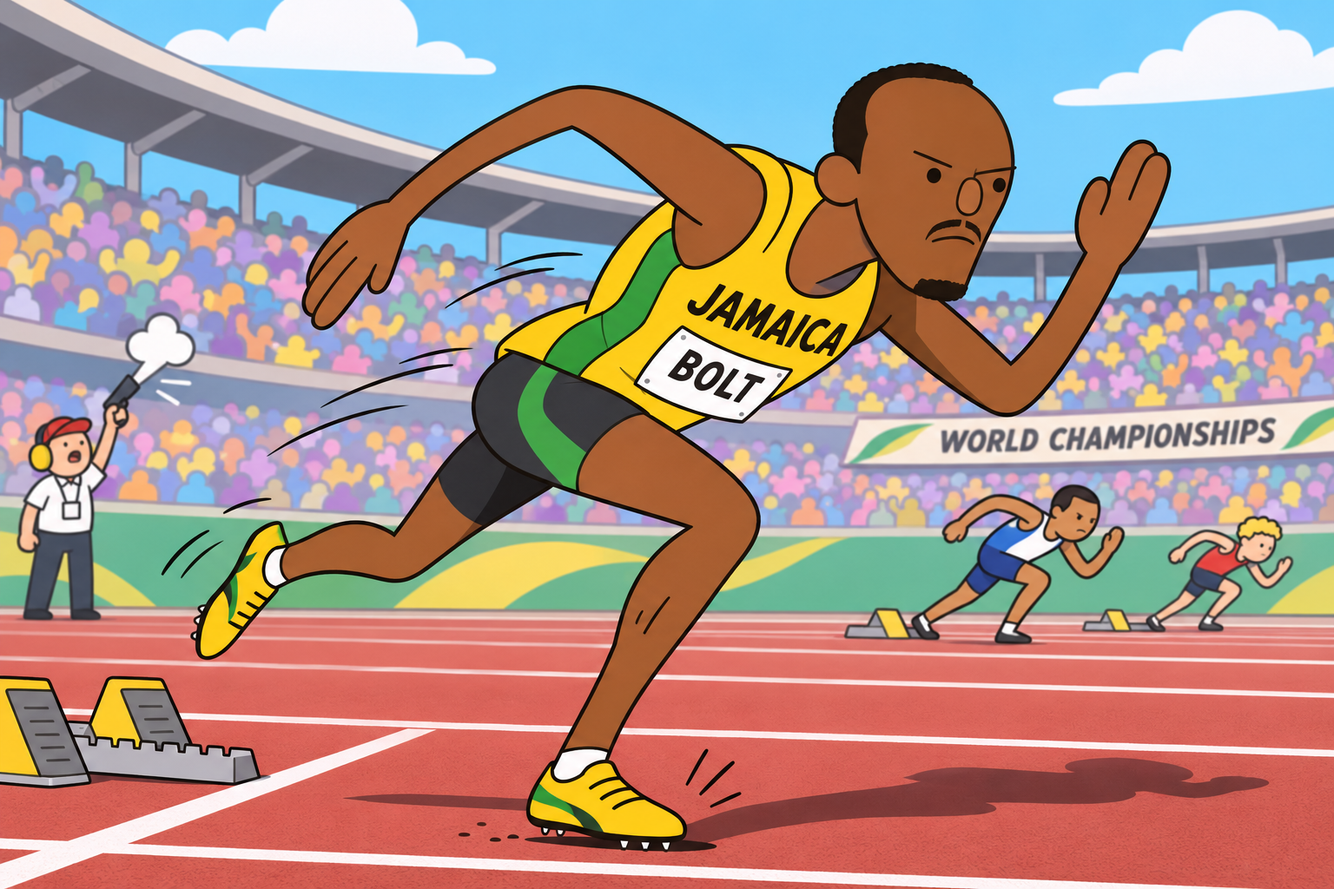
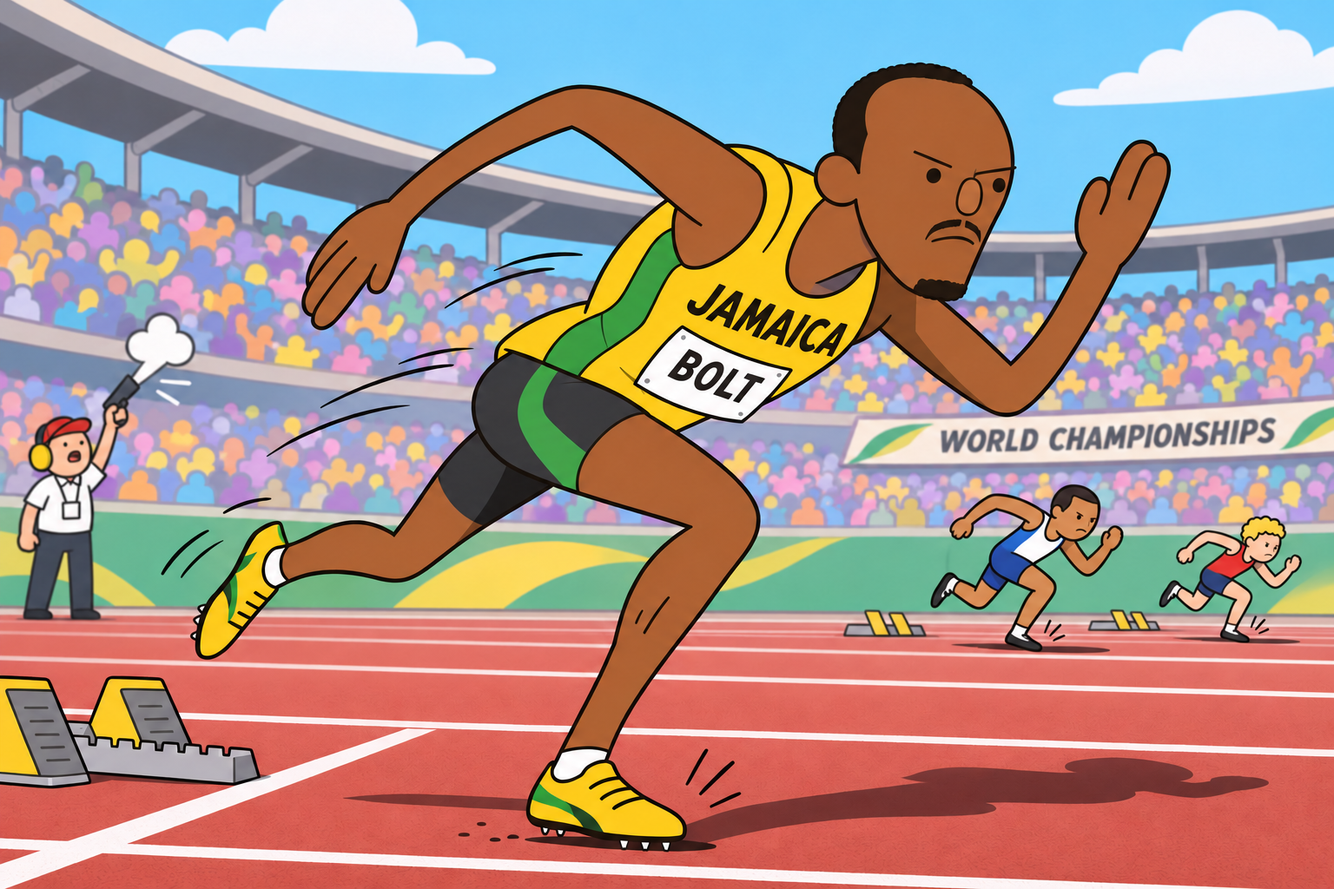
Refine scene coherence, preserve protagonist framing, and update the approved Bolt example

diff --git a/skills/artifact-template-cartoon-jake/SKILL.md b/skills/artifact-template-cartoon-jake/SKILL.md
@@ -1,6 +1,6 @@
 ---
 name: artifact-template-cartoon-jake
-description: 'Create or edit 2D cartoon images using the three saved Cartoon Jake references. Use when the user requests Cartoon Jake, a Jake-inspired style, or this template. Maintain character design, linework, and color while depicting movement, physical effort, surface effects, and coherent shadows. Apply to other subjects when this style is requested.'
+description: 'Create or edit 2D cartoon images using the three saved Cartoon Jake references. Use when the user requests Cartoon Jake, a Jake-inspired style, or this template. Preserve subject identity, clear visual emphasis, coordinated actions and interactions, believable contact, and coherent lighting. Apply across sports, everyday activities, quiet scenes, and fantasy when this style is requested.'
 ---
 
 # Cartoon Jake
@@ -30,21 +30,50 @@ Resolve `artifact-template.json` and all relative paths from this skill's direct
 - Show effort in a loaded foot or calf with a slight contour bulge, a short curved mark, or compression of the sole. Keep the character's overall proportions recognizable as the pose changes.
 - Use squash and stretch to support the action while retaining facial identity and the underlying body design. Check that the pose remains readable with the effects removed.
 
+## Composition and focal subject
+
+- For a protagonist-led action scene, inspect the [approved Usain Bolt composition](assets/usain-bolt-composition.png). Study its large foreground protagonist, dynamic silhouette, and smaller active supporting figures. Use it as a guide to visual emphasis and adapt the subject, activity, pose, setting, and framing to the current request.
+- Establish the intended main subject or group. Make that focus immediately clear through framing, scale, placement, contrast, and detail.
+- For a single-protagonist scene, give the protagonist a strong silhouette and appropriate visual prominence. Keep supporting figures legible at their smaller scale.
+- Preserve an approved close-up, camera angle, crop, and subject size during corrections. Repair background poses, contacts, or perspective within that composition whenever possible.
+- Check the focal subject again after every revision. A correction should retain the visual emphasis the user liked. Give a group equal prominence when the request calls for an ensemble.
+
+## Scene-wide defaults
+
+Apply these preferences whenever the request leaves a choice open.
+
+- Coordinate everyone around the same event and moment, with small natural differences in reaction and pose.
+- Keep balance, weight transfer, contact, and cause and effect believable. Use cartoon exaggeration in shapes, proportions, and elasticity.
+- Add supporting participants when the situation calls for them, such as teammates, opponents, or a referee. Follow explicit subject counts and composition requests.
+- Simplify background faces and clothing while keeping their readable actions, direction, gaze, contact, and shadows consistent with the scene.
+- Choose a camera angle that makes the important movement, contact, or interaction easy to understand.
+- For real people and recognizable events, verify defining appearance, representative clothing, equipment, and the key action against relevant reliable references.
+- Use moderate, purposeful effects so the important force or movement is immediately readable.
+- Prioritize a thorough visual review and targeted corrections before presenting a finished image.
+
+Use these principles across active and quiet scenes, including sport, everyday tasks, conversation, cooperation, animals, and fantasy. For a portrait or symbolic composition, apply the checks that are relevant to that format. Preserve the user's explicit choices.
+
 ## Creation workflow
 
-1. Identify the subject, action, expression, viewpoint, surface, background, and intended use. For an edit, distinguish the requested changes from the elements to preserve. Reuse any established production settings.
-2. Establish the stable features of the face, body, palette, line weight, camera, and lighting. Define the pose changes separately. For a series, use the same approved reference throughout and compare new images back to it to control drift.
-3. Read [references/motion-and-light.md](references/motion-and-light.md) when movement, ground contact, or lighting is important. For running, specify the supporting foot, direction of propulsion, surface response, and shadow placement. Choose effects appropriate to the action.
-4. For a standalone image with an unspecified setting, choose a simple background that keeps the subject readable. Use a single light from the upper left and toward the viewer as a production default. Follow established scene lighting or the user's chosen light when available.
-5. Use the available `imagegen` skill and image generation tool. Include the image roles, requested action, stable design features, contact and surface effects, lighting, shadows, and output requirements in the prompt. Generate the requested background explicitly. For transparency, request a real alpha channel.
-6. Inspect the result against the checks below. When correcting a defect, retain the successful face, colors, and composition and focus the next edit on that defect. If targeted corrections repeatedly fail, report the remaining issue and the current result.
+1. Identify the focal subject, requested moment, action or interaction, mood, viewpoint, setting, and output use. For an edit, establish the requested changes and the design features to retain, including the approved composition, crop, and subject scale. Reuse existing production settings.
+2. Establish the stable face, body proportions, palette, line weight, camera, and lighting. For a series, use the same approved reference throughout and compare each result back to it.
+3. For a named real person or recognizable event, inspect relevant supplied evidence and look up missing defining details through reliable sources. Prefer official athlete, team, event, museum, or creator material and original photography when relevant. Verify the subject's appearance, representative attire, equipment, and action. Match a particular year or edition when specified. If a necessary reference is inaccessible, briefly identify the resulting uncertainty.
+4. Build a concise scene description. Identify the shared moment, the state of each important participant, meaningful gaze targets, and the relevant hand/object or body/surface contacts. Read [references/scene-coherence.md](references/scene-coherence.md) for scenes with multiple participants, object handling, event timing, or a sequence of panels.
+5. Read [references/motion-and-light.md](references/motion-and-light.md) when movement, physical support, surface effects, or lighting needs attention. Choose a viewpoint that reveals the defining contacts and actions. Use a single light from the upper left and toward the viewer as a default, following the established scene or the user's lighting when available.
+6. Use the available `imagegen` skill and image generation tool. Supply the saved style references as actual image inputs. Specify the requested scene, stable character features, shared timing, participant interactions, physical support, relevant effects, and light direction. Include background participants' actions explicitly. Request a real alpha channel for transparent output.
+7. Review the generated image at both scene and detail level. Correct material inconsistencies before presenting it as finished. Retain successful visual features during each focused revision, then inspect the whole scene again for changes elsewhere. If the same problem persists after repeated focused corrections, report the remaining issue and retain the strongest result.
 
-## Visual checks
+## Visual review
 
-- Compare the face, proportions, linework, and colors with the references.
-- Check that the loaded body parts, planted and lifted feet, movement direction, and phase of the action agree. Confirm that every limb and joint connects clearly.
-- Check that dust, droplets, or debris originate at the relevant contact point, match the surface, and leave the face and footwork readable.
-- Check that lit surfaces, form shadows, and cast shadows share the same light source. Distinguish ground contact from airborne parts.
-- For a full-body request, keep the hands, feet, and necessary effects within the frame. Check the output for stray checkerboards, source logos, and captions.
+First check the whole scene for timing and spatial relationships. Then inspect the main subject, interacting objects, every readable background participant, and the lighting.
 
-Compare a series using the same camera and lighting conventions. Replace a saved reference only when the user explicitly approves that change. Save project assets to the requested output location and briefly report what was generated, what was inspected, and where the files were saved.
+- **Visual emphasis.** Confirm that the intended protagonist or group remains immediately recognizable as the focus. Preserve the user's preferred framing and subject scale through corrections.
+- **Shared moment.** Confirm that the foreground and background describe compatible stages of the same event. Natural reaction differences should fit the elapsed time.
+- **Character and style.** Compare identities, proportions, linework, colors, expressions, and clothing with the chosen references.
+- **Action and support.** Check balance, weight transfer, joints, grips, planted and airborne limbs, object support, and the cause of each effect.
+- **Interaction and gaze.** Confirm that hands reach their intended objects, exchanged objects occupy one coherent position, and attention points toward the relevant person or action.
+- **Space and background.** Check relative scale, depth, orientation, paths, lanes, furniture, and occlusion. Apply the same timing and physical logic to readable background figures.
+- **Light and effects.** Align lit surfaces, form shadows, contact shadows, cast shadows, reflections when present, and environmental effects. Match particles or surface disturbances to their source and age.
+- **Framing and output.** Keep required features within the frame, make essential contacts readable, and check for stray source captions, logos, checkerboards, or malformed requested text.
+
+Compare a series using consistent design and camera conventions, with lighting adjusted coherently for any intentional viewpoint changes. Replace a saved reference only when the user explicitly approves that change. Save project assets to the requested destination and report the final result and any remaining material limitation accurately.

diff --git a/skills/artifact-template-cartoon-jake/references/scene-coherence.md b/skills/artifact-template-cartoon-jake/references/scene-coherence.md
@@ -1,0 +1,80 @@
+# Scene Coherence
+
+Use this guide when participants or objects share an event, interact, or appear across a sequence. Choose the relevant checks for the requested composition.
+
+## One shared moment
+
+Identify what has just happened, what is happening now, and what follows. Position each participant and object at a compatible point in that chain.
+
+For a shared trigger such as a starting signal, a door opening, or an object being handed over, allow small natural differences in reaction and pose. Make the resulting states believable within the same elapsed time. Vary silhouettes and expressions according to each participant's role.
+
+Distinguish simultaneous events from sequential interactions. During a pass, the thrower may be following through while the receiver prepares to catch. During a conversation, a speaker may gesture while a listener attends. Those different poses belong to the same moment.
+
+For a sprint scene showing the first step after the gun, place the visible competitors in compatible early acceleration states. Show them driving away from their blocks, with slightly different stride phases and plausible separation along the track. Keep their progress and body lean consistent with the very short time since the start.
+
+## Participants, attention, and intent
+
+For each important figure, establish a role, action, position, target of attention, and any interaction. Include readable background figures in this reasoning.
+
+Add supporting participants only when the setting or action calls for them. A competition can include opponents and officials. A solitary portrait follows the requested subject count. Keep the main subject visually prominent through scale, placement, contrast, and detail.
+
+Preserve the approved composition when fixing a supporting participant. In a close-up, retain the protagonist's size, framing, and dynamic silhouette while repairing smaller figures in the available background space. Check the correction at the final viewing size so the main subject remains the clear focus. Follow the requested balance of attention for ensemble scenes.
+
+Use gaze, head direction, torso orientation, and gestures to explain attention. A cook can watch the knife or pan, a catcher can track the ball, and a listener can attend to the speaker. Deliberately looking away should fit the requested emotion or story. Preserve the character's facial conventions when eye detail is simplified.
+
+Background participants can have simpler faces and clothing. Their action, direction, timing, support, and shadow still need to agree with the scene. Review crowd groups at their readable scale and inspect individually legible participants.
+
+## Hands, objects, and shared loads
+
+Establish who supports each object, where the contact occurs, and where the load travels through the body or surface.
+
+- Shape a grip around the relevant handle, edge, or surface. Align the wrist and fingers with that contact.
+- In a handoff, choose the instant of shared support, release, or receipt. Give the exchanged object one readable location and consistent orientation.
+- For joint lifting, show how each participant contributes support. Align their grips, load height, posture, and effort with the same object and movement.
+- For tool use, align the grip, working end, target, and material response. Follow the chosen stage of the task.
+- When an object rests on furniture or the ground, show plausible support, overlap, and contact shadow.
+- For soft materials, place deformation at the relevant tension or compression points and carry it through connected fabric, straps, or cushions.
+
+Use the anatomy and capabilities of the depicted subject. Adapt support and movement to animals, creatures, prosthetics, or fantastical designs while keeping the scene's chosen rules consistent.
+
+## Space, scale, and environment
+
+Establish the ground plane, relative distances, direction of travel, camera perspective, and key obstacles. Keep lanes, paths, tables, stairs, vehicles, and architecture aligned with that space.
+
+Use overlap to clarify depth while keeping the defining contact or exchange visible. Frame the scene so the action can be understood without relying on hidden joints or objects. Keep hands, props, and nearby silhouettes legible where they meet.
+
+Scale distant figures and equipment consistently with the viewpoint. In a start-line scene, depth across neighboring lanes and progress along the race are separate relationships. Show both correctly.
+
+Judge progress from each participant's position relative to the shared starting plane, using the same perspective for lane boundaries and equipment. Match displacement to the elapsed time and local figure scale. Choose relative positions from the requested story or event evidence, and check that the composition communicates those positions clearly.
+
+Coordinate environmental causes across the frame. A shared wind should affect loose fabric, leaves, and dust coherently. Water disturbances should follow the actual entry or stroke. Effects may persist after the cause, with position and intensity appropriate to their age.
+
+## Apply the principles across scenes
+
+| Scene | Shared timing and interaction | Useful physical details |
+| --- | --- | --- |
+| Race start | Competitors react to the same signal and occupy nearby stages of early acceleration. | Short travel from each start position, low drive posture, coherent foot contact and lane perspective. |
+| Throwing and catching | Choose release, flight, or receipt, then coordinate the thrower, receiver, and object around that instant. | One object position, a plausible path, target-directed gaze, and appropriate hand readiness or compression. |
+| Carrying furniture together | Everyone supports and moves the same load at the same height and moment. | Grips at usable edges, compatible steps, distributed effort, and a consistent object orientation. |
+| Cooking or making something | Each person's gesture belongs to the current stage of a shared task. | Working hand and stabilizing hand, tool contact, ingredients or materials, and an appropriately supported container. |
+| Writing, drawing, or studying | Coordinate attention with the page, screen, instrument, or demonstration. | Pen tip meets the page during a stroke, the book is supported, and the seated body rests convincingly. |
+| Conversation or an emotional scene | Give gestures, gaze, and reactions a relationship to the same exchange. | Relaxed or tense posture, meaningful personal distance, and contact where people lean or sit. |
+| Swimming, cycling, or animal movement | Select a phase suited to the activity and coordinate body, equipment, and surroundings. | Relevant water contact, pedal and handlebar alignment, or species-appropriate support and gait. |
+| Fantasy action | Establish the requested fictional behavior and carry its consequences through the frame. | Consistent origins and targets of effects, reactions, displacement, and any light emitted by the effect. |
+| Portrait or a still life | Follow the requested attention, mood, arrangement, and viewing angle. | Balanced posture or object support, readable shapes, and coherent illumination. |
+
+These examples illustrate the reasoning to apply. Use the same questions for new activities that the user requests.
+
+## Sequences and repeated characters
+
+For comics, storyboards, or animation frames, choose a coherent moment within each panel and a plausible progression between panels. Track identity, costume, held objects, handedness when established, positions, entrances and exits, and the state of the environment.
+
+Maintain a clear camera axis or give enough spatial information to explain an intentional change. Reuse approved character references across the sequence. Follow explicitly requested montage or symbolic arrangements.
+
+## Review and correction
+
+Read the full image as a scene before concentrating on attractive details. Trace each important action from its cause through the participants and objects to its visible consequence.
+
+Inspect every readable background figure, then check contact points and lighting at a closer scale. In a race, compare the participants' progress along their lanes. In a handoff, inspect both hands and the shared object. In a conversation, compare gaze and body language.
+
+When an error changes the meaning of the scene, correct it before final delivery. Identify the specific relationship to repair and preserve successful character and style choices. Review the whole frame after the edit, since a local correction can affect surrounding elements. Stop repeated attempts when they cease to improve the result and clearly report the remaining material issue.

diff --git a/README.md b/README.md
@@ -1,12 +1,18 @@
 # Cartoon Jake
 
-A Codex skill for expressive 2D cartoons with rounded shapes, clean black outlines, and vivid flat colors. It carries the same visual style across new subjects and poses while paying close attention to weight, contact, surface effects, and lighting.
+A Codex skill for expressive 2D cartoons with rounded shapes, clean black outlines, and vivid flat colors. It applies the same visual language across sports, everyday activities, conversation, teamwork, animals, fantasy, and quiet scenes.
+
+The instructions coordinate the entire scene, including background participants, shared objects, physical contact, and lighting.
+
+They also preserve a clear focal subject. An approved close-up keeps its framing and protagonist scale while corrections address supporting details.
 
 ## Usain Bolt's first step
 
-This generated example captures Usain Bolt taking his first step after the starting gun at the World Championships.
+This approved example depicts Usain Bolt taking his first step after the starting gun at the World Championships.
 
 ![Usain Bolt taking his first step from the starting blocks in the Cartoon Jake style, with a Jamaican racing kit, a planted forefoot, and a cast shadow on the track.](examples/usain-bolt-first-step.png)
+
+The close-up makes Bolt the clear protagonist. Smaller background competitors have also left their blocks and begun their first strides. The skill retains this image as a composition reference for protagonist-led scenes and adapts the framing to each request.
 
 The original request, translated into English, was
 
@@ -24,21 +30,64 @@ $skill-installer https://github.com/rlatjr8362/cartoon-jake-skill/tree/main/skil
 
 After installation, invoke `$artifact-template-cartoon-jake` in your next request. The skill's display name is **Cartoon Jake**.
 
+## Default creative direction
+
+| Area | Default |
+| --- | --- |
+| Shared timing | Coordinate participants around the same event, with small natural differences in reaction and pose. |
+| Cartoon exaggeration | Keep balance, weight, contact, and cause and effect believable while exaggerating shape and elasticity. |
+| Supporting participants | Include people or creatures that the situation calls for, following explicit subject counts. |
+| Background detail | Simplify faces and clothing while keeping readable actions, gaze, support, and shadows coherent. |
+| Camera | Make the intended protagonist or group the clear focus while revealing the important action. Preserve approved framing and subject scale during corrections. |
+| Real subjects | Verify defining appearance, representative clothing, equipment, and key actions using relevant reliable references. |
+| Effects | Use moderate, purposeful effects that make effort and movement easy to read. |
+| Review | Inspect the full scene and its readable background participants, then correct material inconsistencies before final delivery. |
+
+Explicit instructions in a request can change these defaults. Specific event years and historical details are researched when they are part of the requested scene.
+
 ## Usage
 
-Describe the subject and action. Add a setting, viewpoint, expression, lighting direction, or transparent background requirement when those details matter.
+Describe who or what is in the scene, what is happening, and the moment you want to capture. Add a setting, expression, camera angle, lighting direction, or transparent background requirement when it matters.
+
+### Sport
 
 ```text
-$artifact-template-cartoon-jake Draw Jake sprinting along a dirt path. Show the force through his planted foot and small puffs of dust kicked up behind him.
+$artifact-template-cartoon-jake Draw the first step after the starting gun at a sprint final. Keep all visible competitors in compatible stages of early acceleration, with small natural differences in their strides.
 ```
+
+### Cooperation and object handling
 
 ```text
-$artifact-template-cartoon-jake Draw a basketball player at the top of a jump. Match the indoor court lighting and place the player's shadow on the floor below.
+$artifact-template-cartoon-jake Draw two friends carrying a wooden table through a doorway. Make their grips, shared load, steps, and the table's angle work together.
 ```
 
-The skill uses the saved references to guide character proportions, line weight, and color treatment. For other subjects, it carries over the cartoon style while retaining their distinctive appearance and clothing.
+### Everyday activities
 
-Its motion guidance covers running, jumping, landing, braking, pushing, and resting. Surface effects adapt to the setting, and the character's shading, contact shadows, and cast shadow share a consistent light source.
+```text
+$artifact-template-cartoon-jake Draw Jake preparing breakfast while a friend hands him a bowl. Show the instant both characters support the bowl, with clear hand contact and coordinated attention.
+```
+
+### Quiet and emotional scenes
+
+```text
+$artifact-template-cartoon-jake Draw a student listening to a friend at a cafe. Use their expressions, gaze, posture, and distance to convey a thoughtful conversation.
+```
+
+### Fantasy
+
+```text
+$artifact-template-cartoon-jake Draw a small wizard lifting a stone with magic while a companion watches. Make the stone's position, the characters' reactions, and the magical light agree.
+```
+
+The skill carries the saved cartoon style across subjects while retaining their defining appearance and clothing. It adapts the physical details to each activity and the requested fictional rules.
+
+## How scene review works
+
+For a race start, all visible competitors should respond to the same signal and fit the brief time elapsed. For a handoff, the participants' hands and the object's position should agree. For a conversation, gaze and gestures should explain who is attending to whom.
+
+Review covers the main subject, interacting props, readable background figures, spatial relationships, and lighting. Focused corrections address material errors while retaining successful visual choices.
+
+For a protagonist-led scene, review also checks that the main subject retains the intended prominence. Background corrections preserve an approved close-up and its dynamic silhouette.
 
 ## Repository layout
 
@@ -57,9 +106,11 @@ cartoon-jake-skill/
         │   ├── preview.png
         │   ├── reference.png
         │   ├── reference-action.png
-        │   └── reference-contact.png
+        │   ├── reference-contact.png
+        │   └── usain-bolt-composition.png
         └── references/
-            └── motion-and-light.md
+            ├── motion-and-light.md
+            └── scene-coherence.md
 ```
 
-The skill folder contains the creation instructions, interface metadata, three visual references, and a template preview. Detailed guidance covers motion, physical contact, and lighting. [Skill instructions](skills/artifact-template-cartoon-jake/SKILL.md) · [Motion and lighting guide](skills/artifact-template-cartoon-jake/references/motion-and-light.md)
+The skill folder includes creation instructions, interface metadata, three style references, an approved composition example, a template preview, and detailed guidance for physical action and scene consistency. [Skill instructions](skills/artifact-template-cartoon-jake/SKILL.md) · [Motion and lighting](skills/artifact-template-cartoon-jake/references/motion-and-light.md) · [Scene coherence](skills/artifact-template-cartoon-jake/references/scene-coherence.md)

diff --git a/skills/artifact-template-cartoon-jake/references/motion-and-light.md b/skills/artifact-template-cartoon-jake/references/motion-and-light.md
@@ -4,7 +4,20 @@ Read this guide when the scene includes movement or visible interactions with a 
 
 ## Choose a single moment
 
-Decide whether the image shows anticipation, push-off, flight, landing, or braking. Align the direction of travel, center of mass, supporting points, opposing limb movements, and surface material around that moment. Keep the pose and effects consistent with one phase of the action.
+Choose the phase that defines the requested activity. A jump may show takeoff or landing. A handoff may show shared support or release. Writing may show the pen touching the page during a stroke. Align the body's balance, supporting points, contacts, tools, and materials around that moment.
+
+For scenes with several participants or exchanged objects, coordinate their timing and interactions using [scene-coherence.md](scene-coherence.md).
+
+## General physical details
+
+- Trace weight through the body, held objects, furniture, and receiving surfaces. Adapt balance and support to the activity and the character's anatomy.
+- Show effort locally through appropriate contour changes, compression, stretched fabric, or a firm grip. Scale the effort to the load and movement.
+- Let soft parts, loose clothing, hair, and attached objects follow the initiating movement with plausible delay. Keep attachment points clear.
+- Use moderate effects concentrated around the source of an action. Keep their direction, material, and persistence consistent with the cause and the shared moment.
+- For quiet poses, use subtle support, contact, expression, and lighting to make the scene convincing.
+- For explicitly fantastical actions, establish the requested physical behavior and apply its visible consequences consistently.
+
+## Activity examples
 
 ### Running
 
@@ -25,6 +38,10 @@ Decide whether the image shows anticipation, push-off, flight, landing, or braki
 | Braking or sliding | Show continuing momentum in the body and resistance through the braced leg. Displaced material may collect ahead of the foot or scatter sideways. | Connect the planted foot to the slide mark. Choose the debris direction to match the braking force. |
 | Pushing or lifting | Establish hand and foot support, subtle tension in loaded areas, and a body lean appropriate to the weight. | Emphasize the hand/object and foot/ground contacts. Add surface effects only where the interaction supports them. |
 | Resting or standing | Use the base proportions, a relaxed silhouette, and slight compression through the weight-bearing foot. | Establish a stable contact shadow and quiet surroundings. |
+| Seated conversation | Support the pelvis and body on the chair and connect gestures with the exchange. | Align the body with the seat, feet with the floor where appropriate, and shadows with both receiving surfaces. |
+| Writing or drawing | Place the tool's working tip on the surface during a stroke and support the page or tablet. | Keep the grip, tip, mark, and hand shadow aligned with the same plane. |
+| Pouring or stirring | Match the container angle or utensil movement to the chosen phase of the task. | Show a supported vessel, a coherent liquid path or swirl, and the relevant contact points. |
+| Moving an object together | Coordinate participants' steps, grips, and effort around the shared load. | Keep all grips connected to the same object and show consistent height, orientation, and shadows. |
 
 ## Match effects to the surface
 
@@ -32,6 +49,8 @@ Decide whether the image shows anticipation, push-off, flight, landing, or braki
 - **Grass.** Compress the grass beneath the foot. Add a few disturbed blades or exposed soil where appropriate.
 - **Water.** Place droplets and ripples at the actual contact point. Keep the overlap of water and body readable.
 - **Clean indoor flooring.** Show sole compression, contact shadows, and a few motion marks when helpful. Choose effects consistent with the clean surface.
+- **Tables, paper, and tools.** Concentrate detail on support, working contact, and the material being changed. Match marks, shavings, splashes, or displaced objects to the specific activity.
+- **Synthetic sports tracks.** Use spike contact, subtle sole compression, and restrained motion marks. Match any particles to the actual surface and keep the lane markings readable.
 - **Character cutouts.** Include ground effects according to the requested asset format. When separate character, effect, and shadow layers are requested, or the game supplies its own ground shadows, deliver those elements according to that setup.
 
 ## Keep lighting coherent
